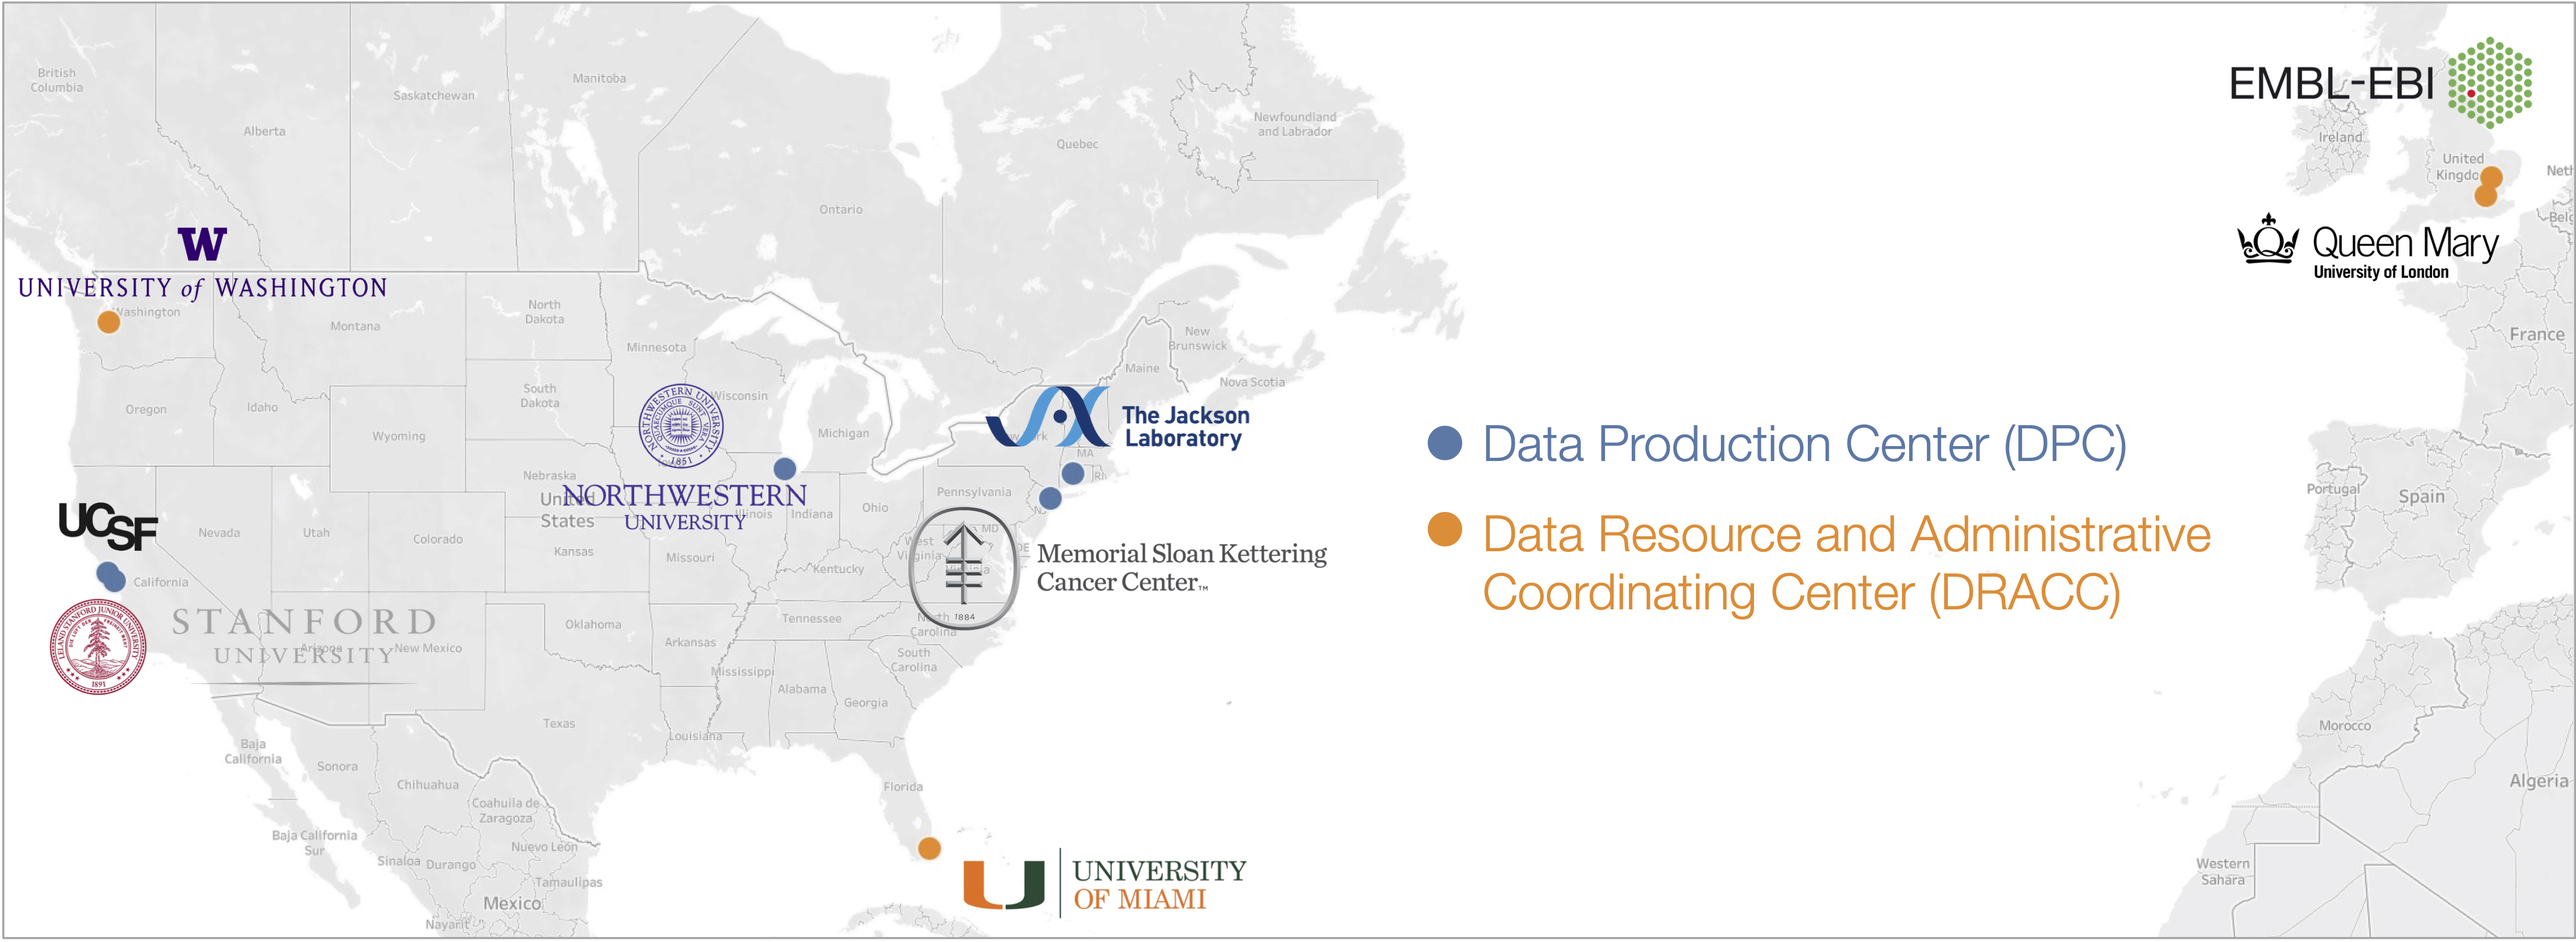
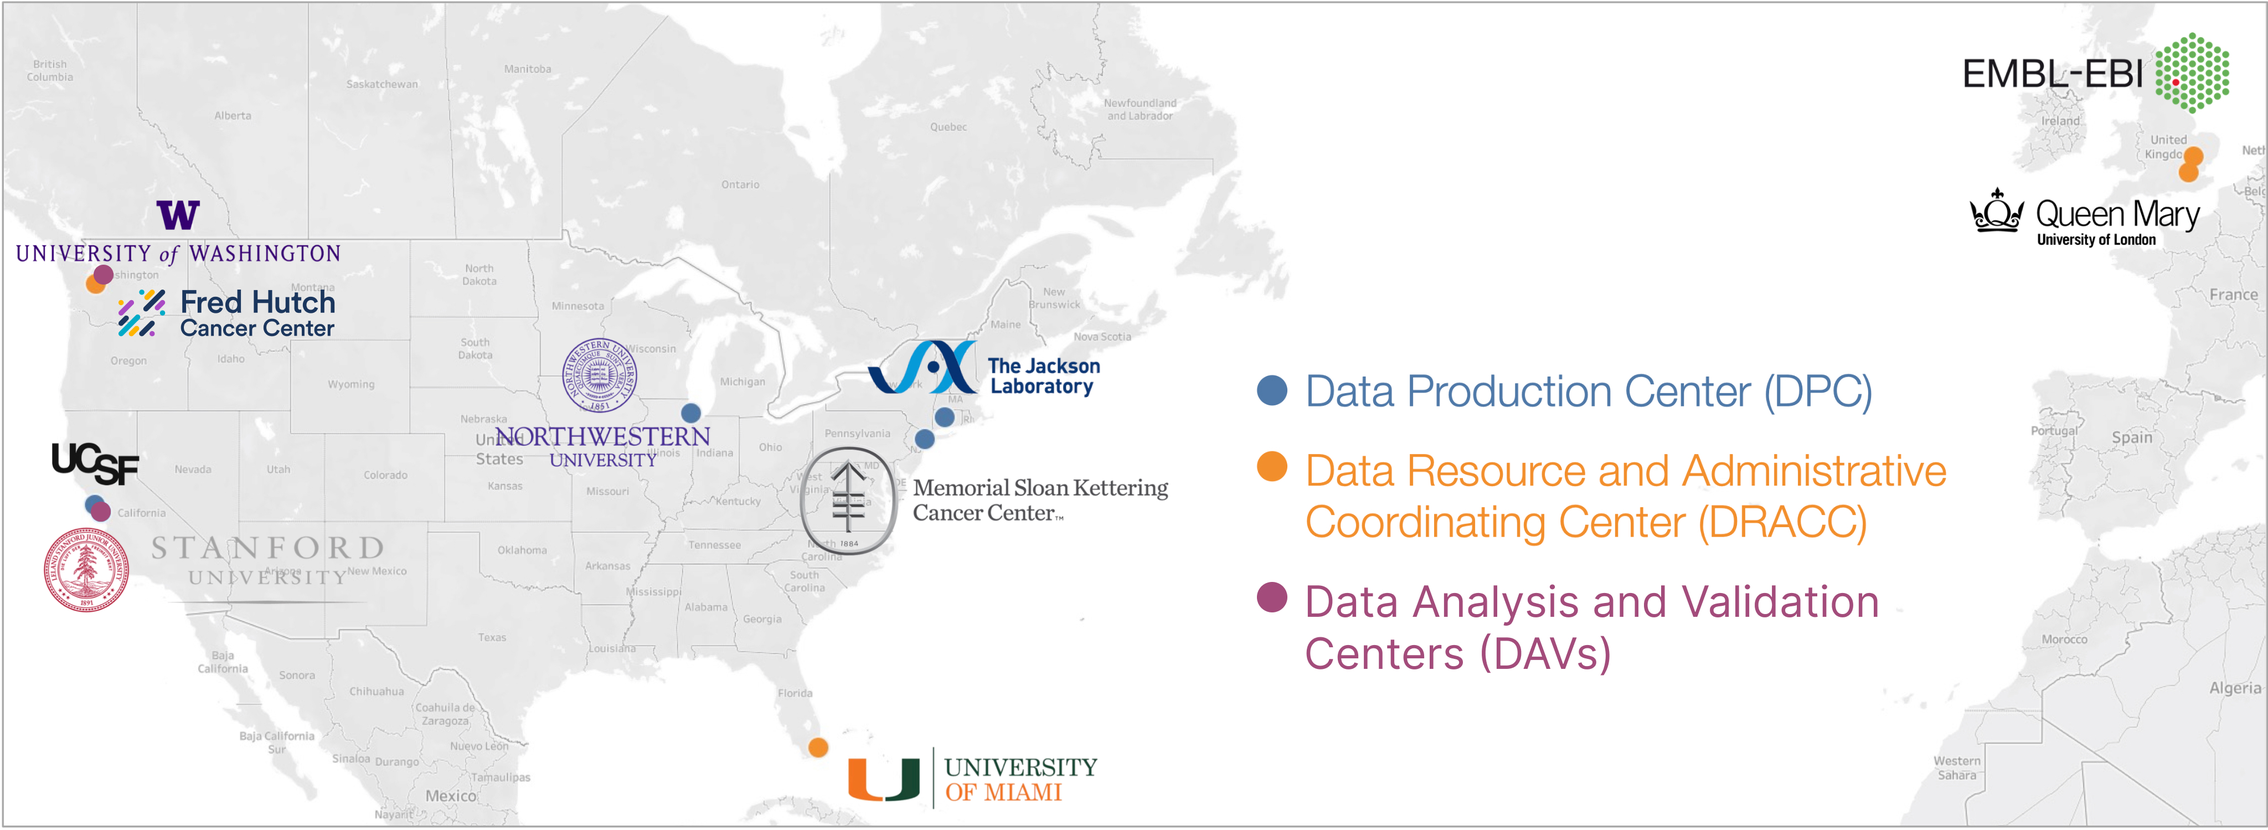
Add new image for map, add new lab to map

diff --git a/web_app/src/containers/map/Map.jsx b/web_app/src/containers/map/Map.jsx
@@ -14,6 +14,7 @@ const Map = () => {
     });
 
     const [ isUW, setIsUW ] = useState(false)
+    const [ isFH, setIsFH ] = useState(false)
     const [ isGilbert, setIsGilbert ] = useState(false)
     const [ isStanford, setIsStanford ] = useState(false)
     const [ isNWUC, setIsNWUC ] = useState(false)
@@ -25,6 +26,7 @@ const Map = () => {
 
     const [ isFullDesc, setIsFullDesc ] = useState(false)
     const [ isFullUWDesc, setIsFullUWDesc ] = useState(false)
+    const [ isFullFHDesc, setIsFullFHDesc ] = useState(false)
     const [ isFullStanfordDesc, setIsFullStanfordDesc ] = useState(false)
     const [ isFullNWUCDesc, setIsFullNWUCDesc ] = useState(false)
     const [ isFullJacksonLabDesc, setIsFullJacksonLabDesc ] = useState(false)
@@ -56,6 +58,12 @@ const Map = () => {
     }
     const hideUWOverview = (event) => {
       setIsUW(false)
+    }
+    const showFHOverview = (event) => {
+      setIsFH(true)
+    }
+    const hideFHOverview = (event) => {
+      setIsFH(false)
     }
     const showGilbertLabOverview = (event) => {
       setIsGilbert(true)
@@ -110,7 +118,21 @@ const Map = () => {
       setIsFullDesc(!isFullDesc)
 
       setIsFullUWDesc(false)
+      setIsFullFHDesc(false)
       setIsFullStanfordDesc(false)
+      setIsFullNWUCDesc(false)
+      setIsFullJacksonLabDesc(false)
+      setIsFullSloanKetteringDesc(false)
+      setIsFullUMiamiDesc(false)
+      setIsFullEBIDesc(false)
+      setIsFullQMULDesc(false)
+    }
+    const showFullFHDesc = (event) => {
+      setIsFullFHDesc(!isFullFHDesc)
+
+      setIsFullStanfordDesc(false)
+      setIsFullUWDesc(false)
+      setIsFullDesc(false)
       setIsFullNWUCDesc(false)
       setIsFullJacksonLabDesc(false)
       setIsFullSloanKetteringDesc(false)
@@ -122,6 +144,7 @@ const Map = () => {
       setIsFullStanfordDesc(!isFullStanfordDesc)
 
       setIsFullUWDesc(false)
+      setIsFullFHDesc(false)
       setIsFullDesc(false)
       setIsFullNWUCDesc(false)
       setIsFullJacksonLabDesc(false)
@@ -134,6 +157,7 @@ const Map = () => {
       setIsFullUWDesc(!isFullUWDesc)
 
       setIsFullDesc(false)
+      setIsFullFHDesc(false)
       setIsFullStanfordDesc(false)
       setIsFullNWUCDesc(false)
       setIsFullJacksonLabDesc(false)
@@ -147,6 +171,7 @@ const Map = () => {
 
       setIsFullUWDesc(false)
       setIsFullDesc(false)
+      setIsFullFHDesc(false)
       setIsFullStanfordDesc(false)
       setIsFullJacksonLabDesc(false)
       setIsFullSloanKetteringDesc(false)
@@ -159,6 +184,7 @@ const Map = () => {
 
       setIsFullUWDesc(false)
       setIsFullDesc(false)
+      setIsFullFHDesc(false)
       setIsFullStanfordDesc(false)
       setIsFullNWUCDesc(false)
       setIsFullSloanKetteringDesc(false)
@@ -171,6 +197,7 @@ const Map = () => {
 
       setIsFullUWDesc(false)
       setIsFullDesc(false)
+      setIsFullFHDesc(false)
       setIsFullStanfordDesc(false)
       setIsFullNWUCDesc(false)
       setIsFullJacksonLabDesc(false)
@@ -184,6 +211,7 @@ const Map = () => {
 
       setIsFullUWDesc(false)
       setIsFullDesc(false)
+      setIsFullFHDesc(false)
       setIsFullStanfordDesc(false)
       setIsFullNWUCDesc(false)
       setIsFullJacksonLabDesc(false)
@@ -196,6 +224,7 @@ const Map = () => {
 
       setIsFullUWDesc(false)
       setIsFullDesc(false)
+      setIsFullFHDesc(false)
       setIsFullStanfordDesc(false)
       setIsFullNWUCDesc(false)
       setIsFullJacksonLabDesc(false)
@@ -208,6 +237,7 @@ const Map = () => {
 
       setIsFullUWDesc(false)
       setIsFullDesc(false)
+      setIsFullFHDesc(false)
       setIsFullStanfordDesc(false)
       setIsFullNWUCDesc(false)
       setIsFullJacksonLabDesc(false)
@@ -220,7 +250,8 @@ const Map = () => {
       <section className="morphic__map section__padding" id="map">
         <div className="morphic__map-container">
             <map name="moreinfo">
-                <area shape="rect" coords="0,80,200,160" href="#whatmorphic" alt="UW Yeung Lab" onClick={showFullUWDesc} onMouseEnter={showUWOverview} onMouseLeave={hideUWOverview} />
+                <area shape="rect" coords="0,80,200,147" href="#whatmorphic" alt="UW Yeung Lab" onClick={showFullUWDesc} onMouseEnter={showUWOverview} onMouseLeave={hideUWOverview} />
+                <area shape="rect" coords="50,155,200,197" href="#whatmorphic" alt="Fred Hutch Cancer Center Lab" onClick={showFullFHDesc} onMouseEnter={showFHOverview} onMouseLeave={hideFHOverview} />
                 <area shape="rect" coords={ height !== 0 && width !== 0 ? "0," + 0.5 * height + "," + 0.065 * width + "," + 0.6 * height : "0,230,82,276"} href="#whatmorphic" onClick={showFullUCSFDesc} onMouseEnter={showGilbertLabOverview} onMouseLeave={hideGilbertLabOverview} alt="Gilbert Lab" />
                 <area shape="rect" coords="0,282,220,341" href="#whatmorphic" onClick={showFullStanfordDesc} onMouseEnter={showStanfordOverview} onMouseLeave={hideStanfordOverview} alt="Stanford Lab" />
                 <area shape="rect" coords="265,165,395,270" href="#whatmorphic" alt="NORTHWESTERN UNIVERSITY AT CHICAGO" onClick={showFullNWUCDesc} onMouseEnter={showNWUCOverview} onMouseLeave={hideNWUCOverview} />
@@ -253,6 +284,16 @@ const Map = () => {
               <a href="https://reporter.nih.gov/search/0Vl49Afb50KdwhUX5tzEEw/project-details/10519442" target="_blank" rel="noreferrer">https://reporter.nih.gov/search/0Vl49Afb50KdwhUX5tzEEw/project-details/10519442</a>
               <h4>Contact PI/Project Leader</h4>
               <p>Ka Yee Yeung</p>
+            </div>
+          )}
+          {(isFH && (!isFullFHDesc)) && (
+            <div className="lab-overview">
+              <h4>NIH Grant Number</h4>
+              <p>1U01HG013177-01</p>
+              <h4>NIH RePORTER</h4>
+              <a href="https://reporter.nih.gov/search/oIfrWWjJok-fQJ5z7YR03w/project-details/10733165" target="_blank" rel="noopener noreferrer">https://reporter.nih.gov/search/oIfrWWjJok-fQJ5z7YR03w/project-details/10733165</a>
+              <h4>Contact PI/Project Leader</h4>
+              <p>Wei Sun</p>
             </div>
           )}
           {(isStanford && (!isFullStanfordDesc)) && (
@@ -352,6 +393,24 @@ const Map = () => {
             <h4>Description</h4>
             <p>The Yeung Lab focuses on the development of optimized methods and cloud-based software tools for the analyses of big biomedical data. Our platform Biodepot-workflow-builder (Bwb) allows biomedical scientists to create, share and reproducibly execute bioinformatics workflows in a point-and-click user interface. Bwb supports RNA-seq, DNA-seq, nanopore and image processing workflows. </p>
           </div>
+          )}
+          {isFullFHDesc && (
+            <div className="lab-overview">
+              <h4>NIH Grant Number</h4>
+              <p>1U01HG013177-01</p>
+              <h4>NIH RePORTER</h4>
+              <a href="https://reporter.nih.gov/search/oIfrWWjJok-fQJ5z7YR03w/project-details/10733165" target="_blank" rel="noopener noreferrer">https://reporter.nih.gov/search/oIfrWWjJok-fQJ5z7YR03w/project-details/10733165</a>
+              <h4>Lab Websites</h4>
+              <ul className="lab-links">
+                <li>Wei Sun: <a href="https://www.fredhutch.org/en/faculty-lab-directory/sun-wei.html" target="_blank" rel="noopener noreferrer">https://www.fredhutch.org/en/faculty-lab-directory/sun-wei.html</a></li>
+                <li>Li Hsu: <a href="https://www.fredhutch.org/en/faculty-lab-directory/hsu-li.html" target="_blank" rel="noopener noreferrer">https://www.fredhutch.org/en/faculty-lab-directory/hsu-li.html</a></li>
+                <li>Ali Shojaie: <a href="http://faculty.washington.edu/ashojaie/" target="_blank" rel="noopener noreferrer">http://faculty.washington.edu/ashojaie/</a></li>
+              </ul>
+              <h4>Contact PI/Project Leader</h4>
+              <p>Wei Sun</p>
+              <h4>Description</h4>
+              <p>Project Narrative MorPhiC consortium will deliver rich resources of molecular and cellular phenotypes before and after gene knockout using in vitro cellular systems. We will develop statistical methods to combine MorPhiC resources and omic data in human phenotype studies to infer gene functions in diverse settings and identify potential causal genes of human phenotypes. Our methods pave the way to use MorPhiC resources to study the impact of gene loss on complex phenotypes.</p>
+            </div>
           )}
           {isFullStanfordDesc && (
             <div className="lab-overview">
